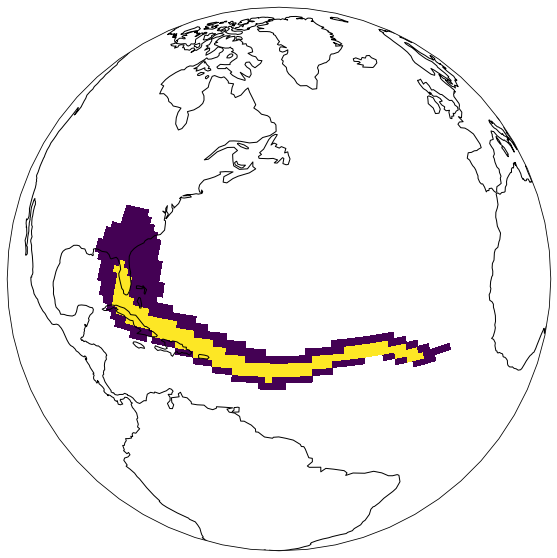
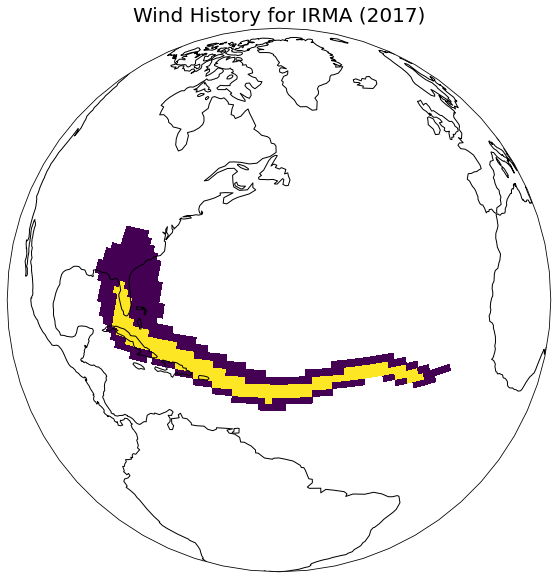
updated readme

diff --git a/src/d07_visualization/wind_history.py b/src/d07_visualization/wind_history.py
@@ -26,7 +26,7 @@ PROJECTION = ccrs.NearsidePerspective(central_longitude = -55, central_latitude 
 POSITIONS = pd.read_csv('data/02_intermediate/Atlantic_positions.csv')
 STORMS = pd.read_csv('data/02_intermediate/Atlantic_storms.csv')
 
-def wind_history(stormID, positions_df = POSITIONS):
+def wind_history(stormID, positions_df = POSITIONS, storms_df = STORMS):
     # Get the list of all of our coordinates, as well as the lists of wind extents
     storm_lats = trk.track_lat(stormID)
     storm_lons = trk.track_lon(stormID)
@@ -131,10 +131,18 @@ def wind_history(stormID, positions_df = POSITIONS):
     ax.set_global()
     ax.coastlines()
     ax.pcolormesh(Lon, Lat, wind_history_transparent, transform = ccrs.PlateCarree())
+    
+    storm = storms_df[storms_df['stormID']== stormID]
+    name = storm['name'].to_string(index = False).strip()
+    year = storm['year'].to_string(index = False).strip()
+    plt.title(f"Wind History for {name} ({year})", fontsize = 20)
 
     # Note: Tropical Storm Winds in Purple, Hurricane in Yellow
 
-def heatmap(freq_array, export = False, dest_fn = "wind_history_heatmap"):
+def heatmap(freq_array, export = False, dest_fn = "wind_history_heatmap", is_hu_only = False, subtitle = None):
+    
+    if subtitle == None:
+        subtitle = ""
     
     freq_array_transparent = np.ma.masked_equal(freq_array, 0)
     
@@ -149,6 +157,10 @@ def heatmap(freq_array, export = False, dest_fn = "wind_history_heatmap"):
     ax.coastlines()
     mesh = ax.pcolormesh(Lon, Lat, freq_array_transparent, transform = ccrs.PlateCarree())
     plt.colorbar(mesh)
+    if is_hu_only:
+        plt.title(f"Number of Cyclones Producing Hurricane-Force Winds /n {subtitle}", fontsize = 20)
+    else:
+        plt.title(f"Number of Cyclones Producing TS-Force Winds \n {subtitle}", fontsize = 20)
     
     if export:
         fig.savefig(f"../results/images/{dest_fn}.jpg")

diff --git a/src/d03_processing/frequency.py b/src/d03_processing/frequency.py
@@ -117,10 +117,10 @@ def wind_frequency(stormlist = STORMS['stormID'][STORMS['year'] >= 2004], positi
                                     if (storm_history[y][180 + m.floor(dlon)] != 2):
                                         storm_history[y][180 + m.floor(dlon)] = 1
                                 
-                                    elif quad in [1, 2]:
-                                        for y in range((90 + m.floor(dlat)), (90 + m.ceil(lat))):
-                                            if (storm_history[y][180 + m.floor(dlon)] != 2):
-                                                storm_history[y][180 + m.floor(dlon)] = 1
+                            elif quad in [1, 2]:
+                                for y in range((90 + m.floor(dlat)), (90 + m.ceil(lat))):
+                                    if (storm_history[y][180 + m.floor(dlon)] != 2):
+                                        storm_history[y][180 + m.floor(dlon)] = 1
                                             
         
         cumulative_winds += storm_history

diff --git a/README.md b/README.md
@@ -10,6 +10,8 @@ I have kept a record of my learning in a series of Jupyter Notebooks (in `/noteb
 
 The structure for this project was adapted from [the Cookiecutter Data Science project structure](https://drivendata.github.io/cookiecutter-data-science/).
 
+Please note that some imports will no longer work if running the notebooks within the `/notebooks/` directory because definitions of defaults for dataset files in the modules are dependent on the working directory being the root of this project; moving the notebooks will likely work, but they are intended to be read primarily as reference materials now.
+
 ### Data cleaning
 
 The HURDAT2 dataset contains rows of position data for storms interspersed with header rows to help identify which storm the position data pertains to. Cleaning the data involved separating these rows into two separate datasets and adding/changing columns where necessary.
@@ -65,7 +67,8 @@ wh.wind_history(irma, positions)
 ![png](readme_files/readme_6_1.png)
     
 
-In my opinion, though lower resolution, this graphic compares favorably with the official graphic (shown below for comparison), indicating my implementation is effective.
+
+In my opinion, though much lower resolution, this graphic compares favorably with the official graphic (shown below for comparison), indicating my implementation is effective.
 
 ![png](readme_files/irmawh.png)
 
@@ -81,7 +84,7 @@ trk.plot_season_summary(2017)
 
 
     
-![png](readme_files/readme_8_0.png)
+![png](readme_files/readme_9_0.png)
     
 
 
@@ -94,12 +97,12 @@ With respect to data products that provide more insight, most interesting is the
 from src.d03_processing import frequency as fr
 frequency_matrix = fr.wind_frequency()
 
-wh.heatmap(frequency_matrix)
+wh.heatmap(frequency_matrix, subtitle = "Since 2004")
 ```
 
 
     
-![png](readme_files/readme_10_0.png)
+![png](readme_files/readme_11_0.png)
     
 
 
@@ -121,19 +124,19 @@ october_storms = storms['stormID'][(storms['month_formed'] == 10) & (storms['yea
 august_frequency = fr.wind_frequency(august_storms)
 october_frequency = fr.wind_frequency(october_storms)
 
-wh.heatmap(august_frequency)
-wh.heatmap(october_frequency)
+wh.heatmap(august_frequency, subtitle = "(Storms formed in August, since 2004)")
+wh.heatmap(october_frequency, subtitle = "(Storms formed in October, since 2004)")
 ```
 
 
     
-![png](readme_files/readme_13_0.png)
+![png](readme_files/readme_14_0.png)
     
 
 
 
     
-![png](readme_files/readme_13_1.png)
+![png](readme_files/readme_14_1.png)
     
 
 
